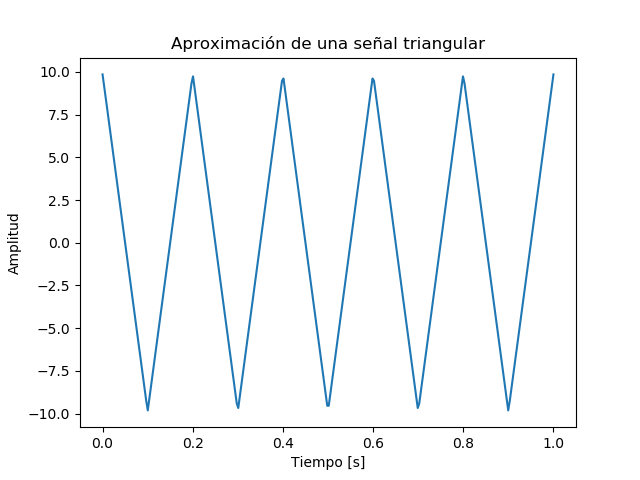
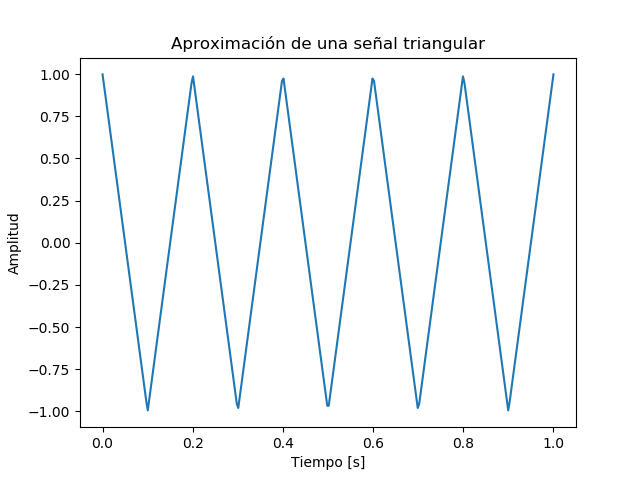
Práctica 1 terminada

diff --git a/p1.py b/p1.py
@@ -31,7 +31,7 @@ ax.plot(t.flatten(),s); ax.set(xlabel='Tiempo [s]' ,ylabel= 'Amplitud', title= '
 plt.show(block=False)
 fig.savefig('C:\\Users\\Mouzhroq\\Desktop\\Python\\MCIB\\p1f2.png')
 
-s2 = (8)*np.sum((1/f**2)*(np.cos(2*np.pi*f*fr*t)), axis=0)
+s2 = (8/np.pi**2)*np.sum((1/f**2)*(np.cos(2*np.pi*f*fr*t)), axis=0)
 fig, ax = plt.subplots()
 ax.plot(t.flatten(), s2); ax.set(xlabel='Tiempo [s]' ,ylabel= 'Amplitud', title= 'Aproximación de una señal triangular')
 
